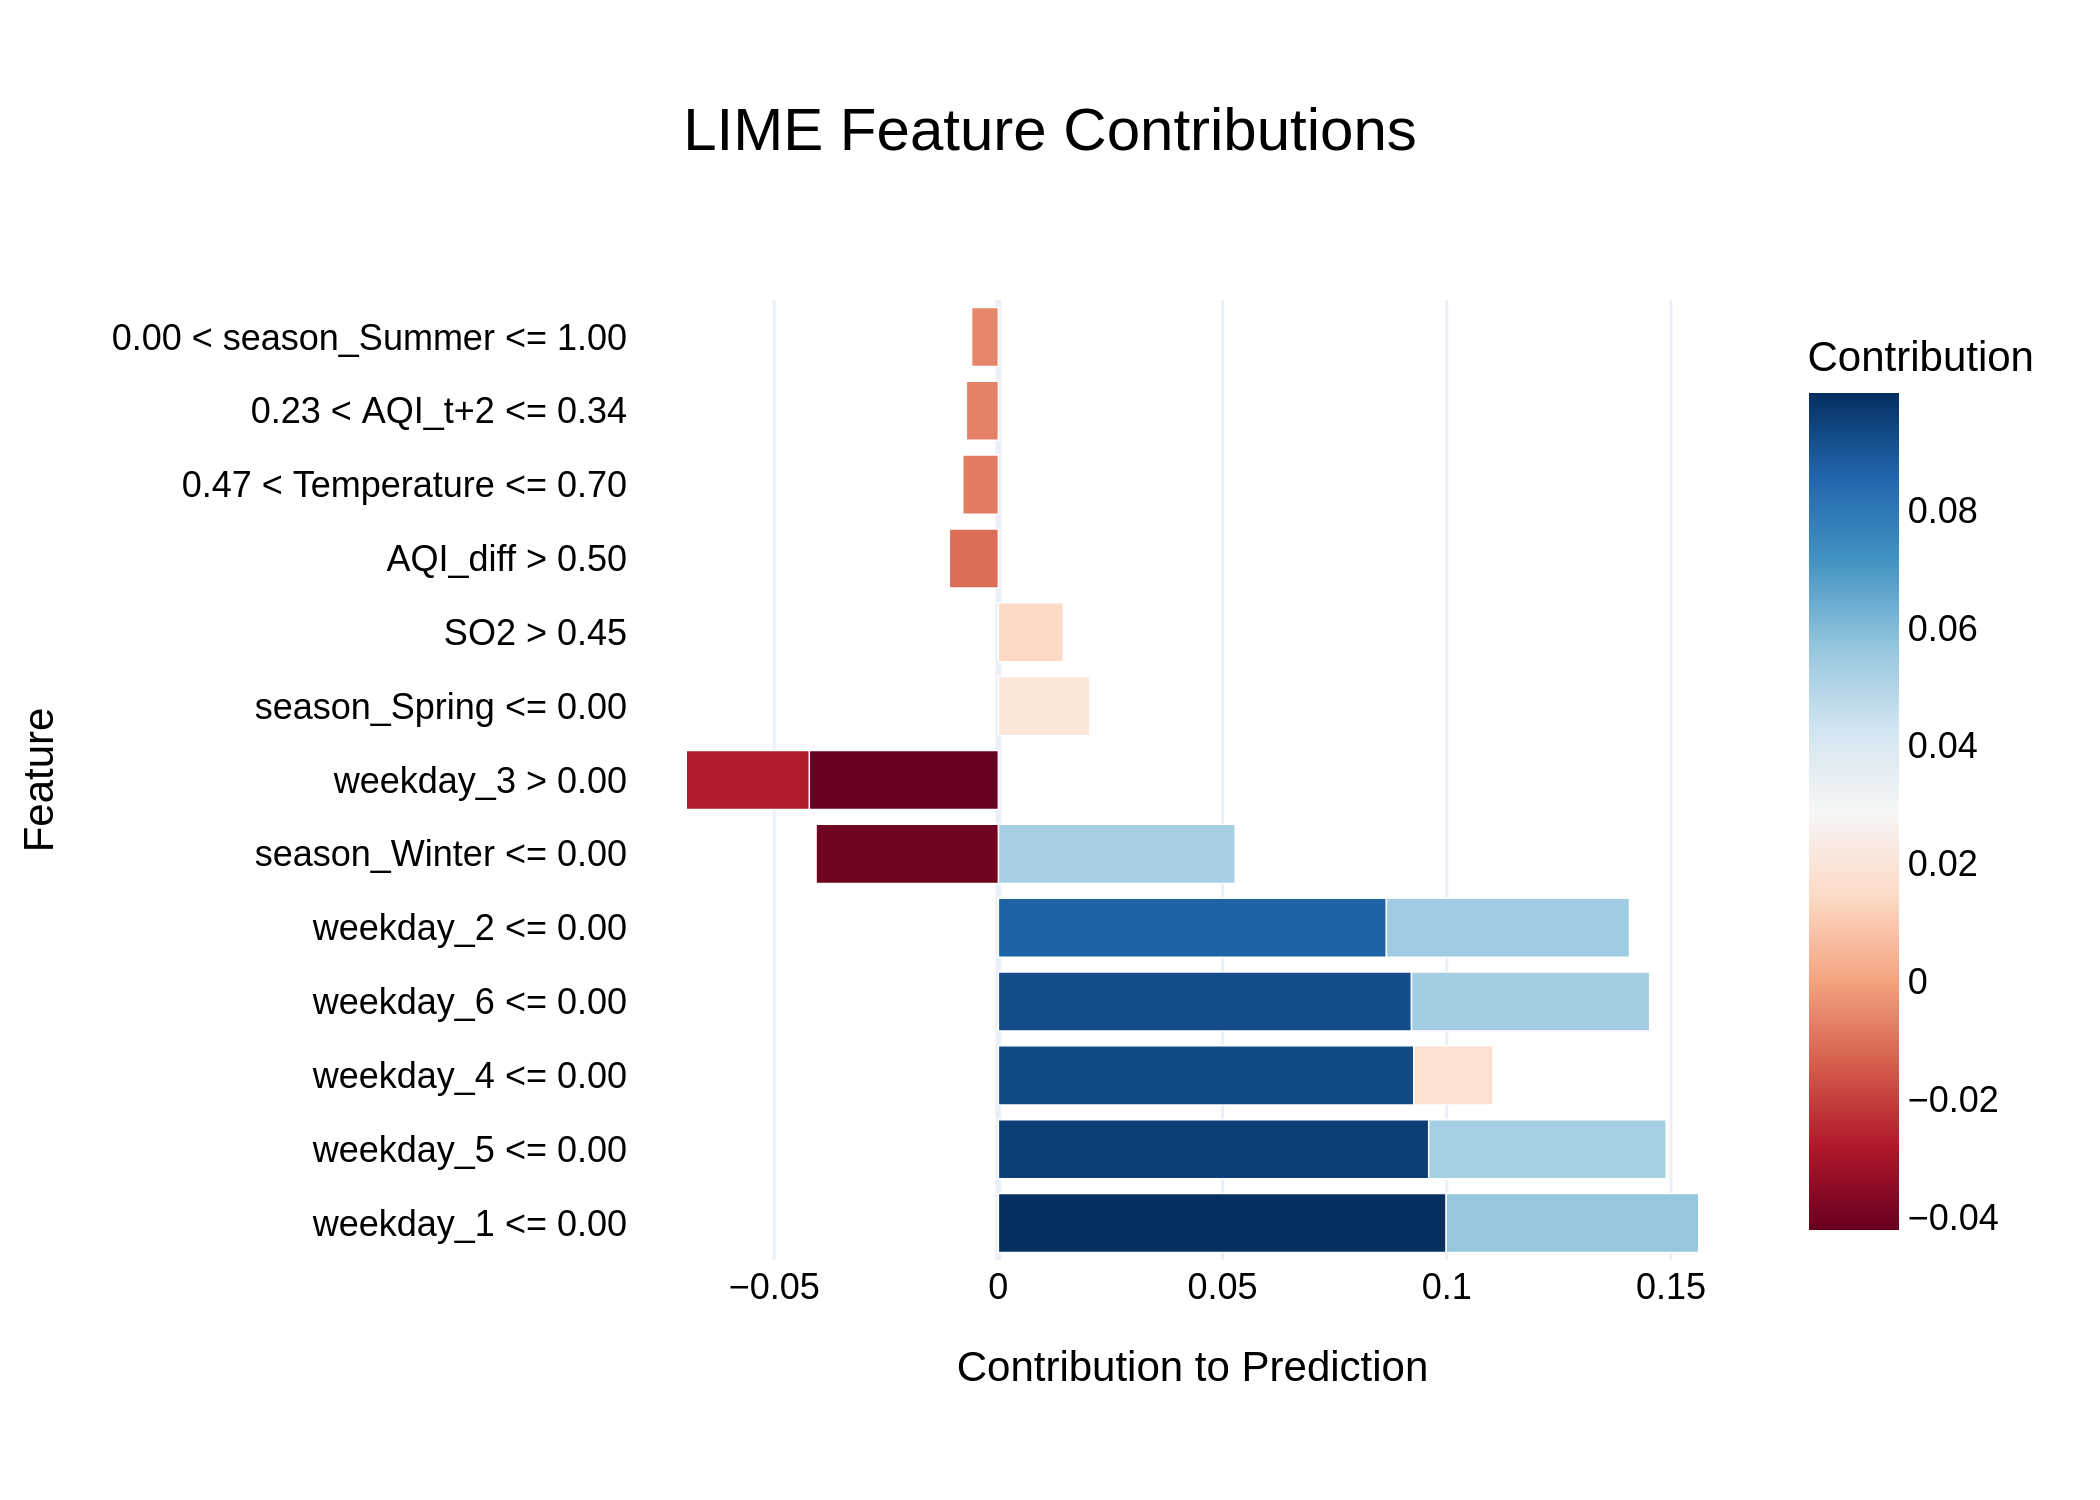
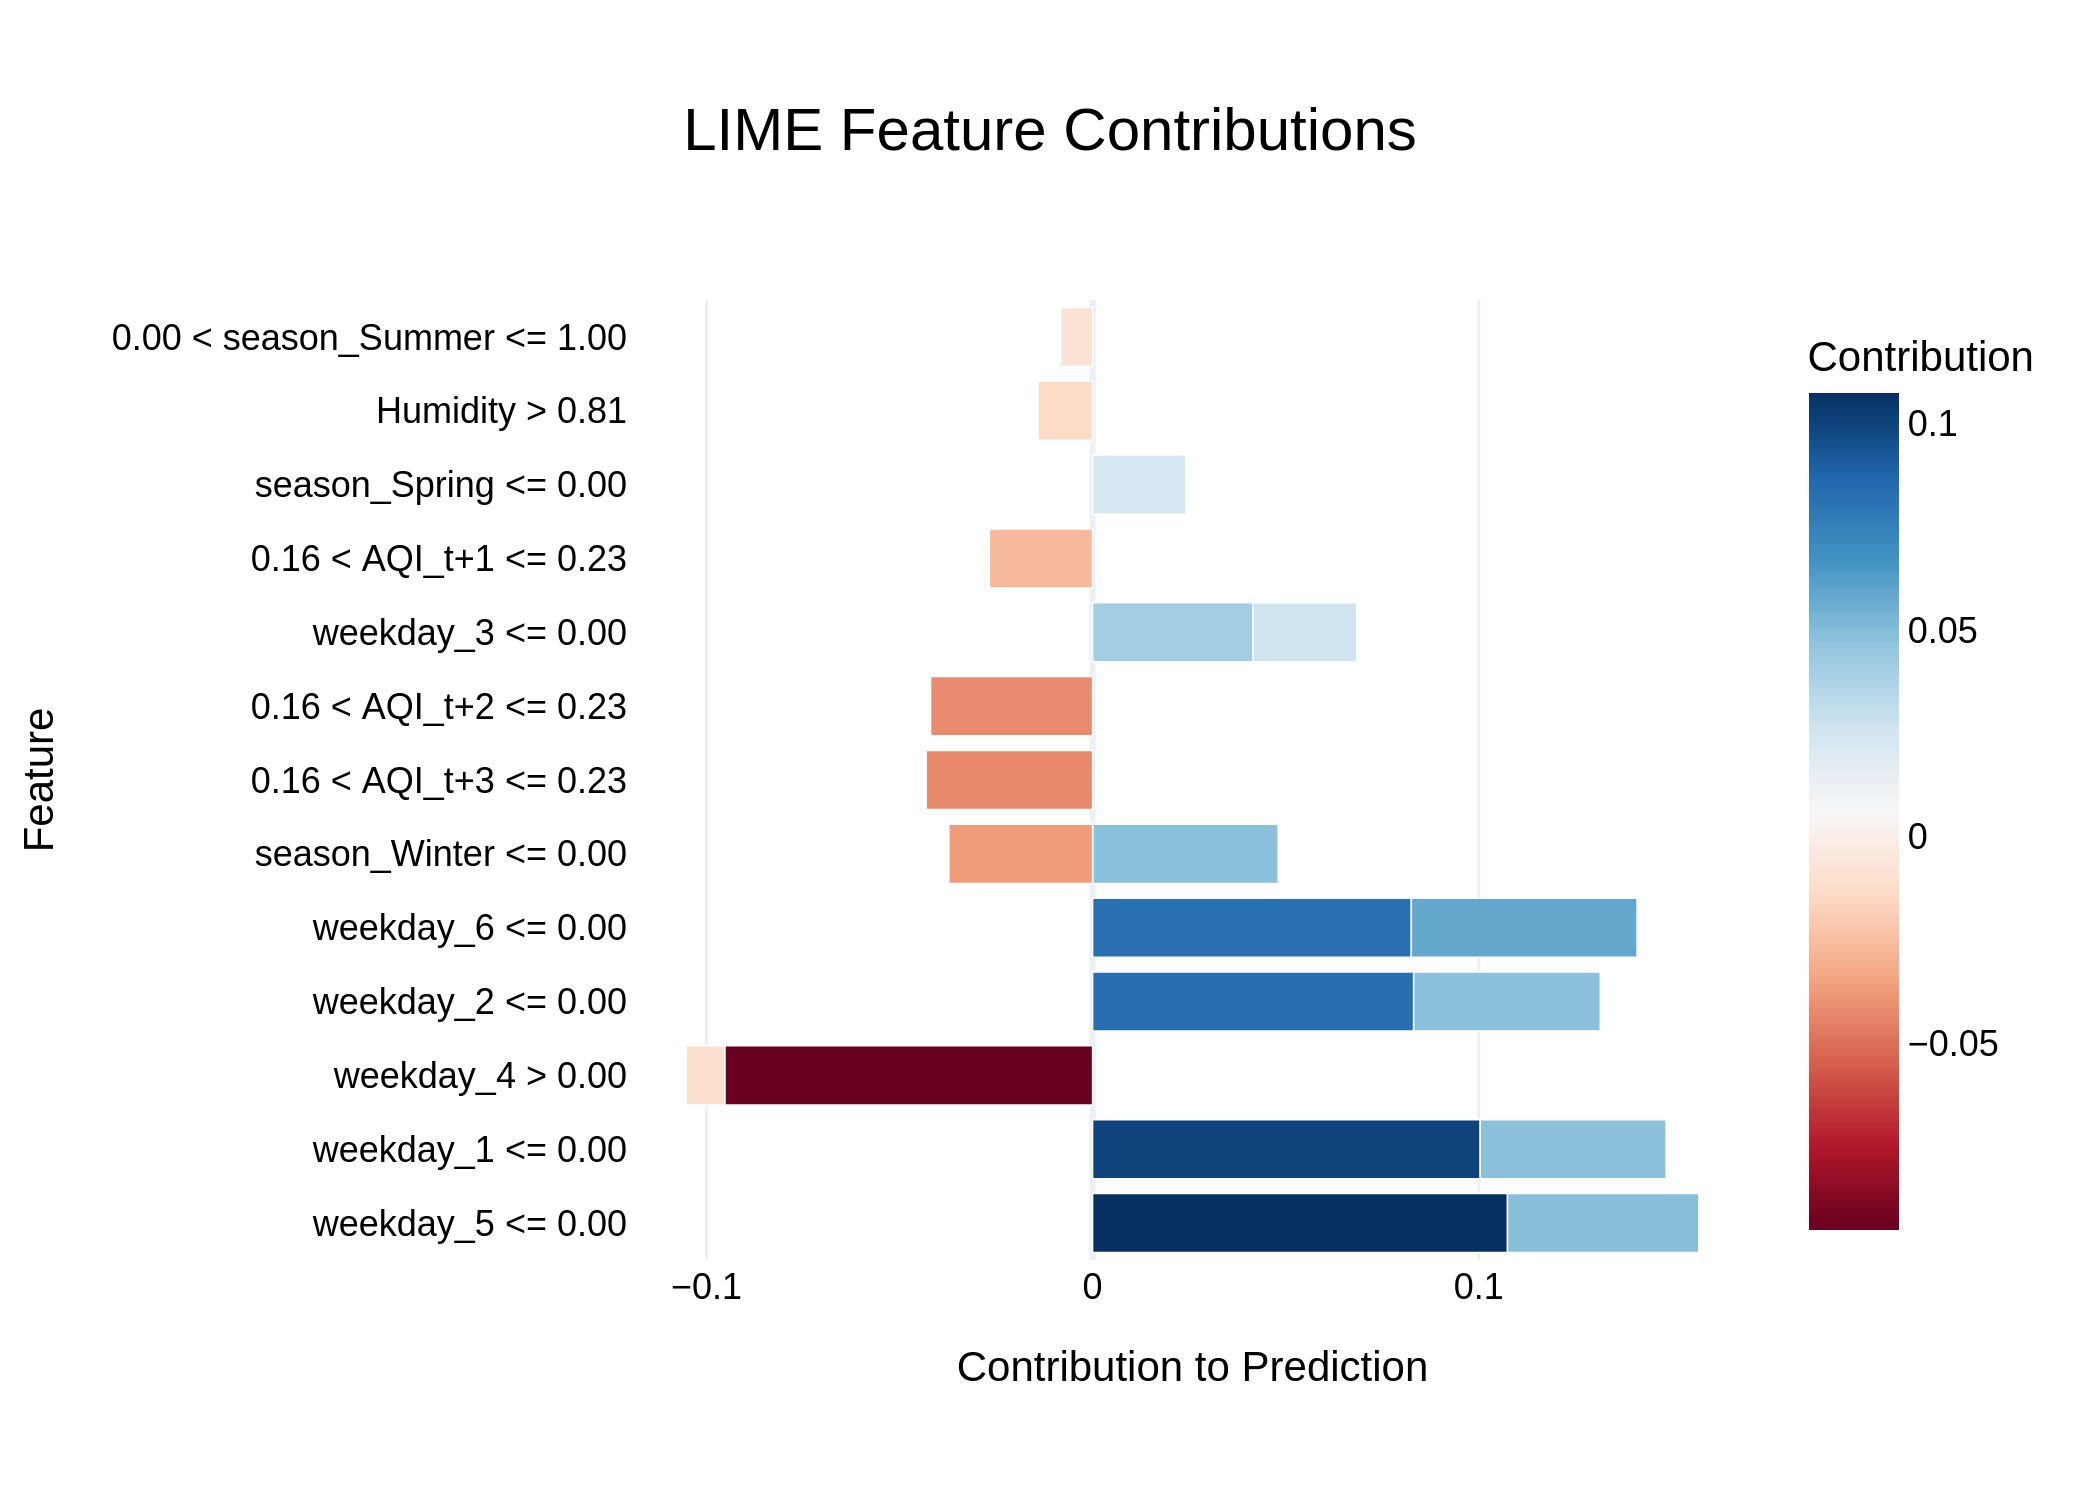
🔄 Auto: Daily data, prediction & LIME update

diff --git a/lime_explanations/lime_explanation.html b/lime_explanations/lime_explanation.html
@@ -37089,25 +37089,25 @@
 /***/ })
 /******/ ]);
 //# sourceMappingURL=bundle.js.map </script></head><body>
-        <div class="lime top_div" id="top_divEDY6PBQW19WDVW2"></div>
+        <div class="lime top_div" id="top_divKG79W702L1V9DVJ"></div>
         
         <script>
-        var top_div = d3.select('#top_divEDY6PBQW19WDVW2').classed('lime top_div', true);
+        var top_div = d3.select('#top_divKG79W702L1V9DVJ').classed('lime top_div', true);
         
         
                     var pp_div = top_div.append('div')
                                         .classed('lime predicted_value', true);
                     var pp_svg = pp_div.append('svg').style('width', '100%');
-                    var pp = new lime.PredictedValue(pp_svg, 0.32339876890182495, -0.1759924292564392, 0.9392633438110352);
+                    var pp = new lime.PredictedValue(pp_svg, 0.20214465260505676, -0.16420698165893555, 0.8634301424026489);
                     
         var exp_div;
             var exp = new lime.Explanation(["negative", "positive"]);
         
             exp_div = top_div.append('div').classed('lime explanation', true);
-            exp.show([["weekday_1 <= 0.00", 0.09987733600703663], ["weekday_5 <= 0.00", 0.09597786134537406], ["weekday_4 <= 0.00", 0.09265615329096118], ["weekday_6 <= 0.00", 0.09213554129022719], ["weekday_2 <= 0.00", 0.08654468748329971], ["weekday_1 <= 0.00", 0.056323989396593374], ["weekday_2 <= 0.00", 0.054221923397580335], ["weekday_6 <= 0.00", 0.05314105892026741], ["weekday_5 <= 0.00", 0.052969852542904775], ["season_Winter <= 0.00", 0.05280724893782332], ["weekday_3 > 0.00", -0.04216904169056307], ["season_Winter <= 0.00", -0.04066020171966828], ["weekday_3 > 0.00", -0.027440364959783102], ["season_Spring <= 0.00", 0.020409482908437672], ["weekday_4 <= 0.00", 0.017647323625234964], ["SO2 > 0.45", 0.014493495466028357], ["AQI_diff > 0.50", -0.010937268038331338], ["0.47 < Temperature <= 0.70", -0.007940891906645263], ["0.23 < AQI_t+2 <= 0.34", -0.0071360346637634785], ["0.00 < season_Summer <= 1.00", -0.005978691816659922]], 1, exp_div);
+            exp.show([["weekday_5 <= 0.00", 0.10744273835397988], ["weekday_1 <= 0.00", 0.10038236358174281], ["weekday_4 > 0.00", -0.09526549472364872], ["weekday_2 <= 0.00", 0.08313935257125901], ["weekday_6 <= 0.00", 0.08253864841885475], ["weekday_6 <= 0.00", 0.058467762124884616], ["weekday_5 <= 0.00", 0.049527239309326794], ["weekday_2 <= 0.00", 0.04833615159238775], ["weekday_1 <= 0.00", 0.0481325487612128], ["season_Winter <= 0.00", 0.04805013280689302], ["0.16 < AQI_t+3 <= 0.23", -0.043093537213304244], ["0.16 < AQI_t+2 <= 0.23", -0.041952634915908185], ["weekday_3 <= 0.00", 0.04158324257003925], ["season_Winter <= 0.00", -0.03723931060035643], ["weekday_3 <= 0.00", 0.02680085410192312], ["0.16 < AQI_t+1 <= 0.23", -0.02673630966838072], ["season_Spring <= 0.00", 0.024114627167834427], ["Humidity > 0.81", -0.014143476869435508], ["weekday_4 > 0.00", -0.00996969752702066], ["0.00 < season_Summer <= 1.00", -0.008336290450698397]], 1, exp_div);
             
         var raw_div = top_div.append('div');
-            exp.show_raw_tabular([["weekday_1", "0.00", 0.09987733600703663], ["weekday_5", "0.00", 0.09597786134537406], ["weekday_4", "0.00", 0.09265615329096118], ["weekday_6", "0.00", 0.09213554129022719], ["weekday_2", "0.00", 0.08654468748329971], ["weekday_1", "0.00", 0.056323989396593374], ["weekday_2", "0.00", 0.054221923397580335], ["weekday_6", "0.00", 0.05314105892026741], ["weekday_5", "0.00", 0.052969852542904775], ["season_Winter", "0.00", 0.05280724893782332], ["weekday_3", "1.00", -0.04216904169056307], ["season_Winter", "0.00", -0.04066020171966828], ["weekday_3", "1.00", -0.027440364959783102], ["season_Spring", "0.00", 0.020409482908437672], ["weekday_4", "0.00", 0.017647323625234964], ["SO2", "0.57", 0.014493495466028357], ["AQI_diff", "0.50", -0.010937268038331338], ["Temperature", "0.65", -0.007940891906645263], ["AQI_t+2", "0.29", -0.0071360346637634785], ["season_Summer", "1.00", -0.005978691816659922]], 1, raw_div);
+            exp.show_raw_tabular([["weekday_5", "0.00", 0.10744273835397988], ["weekday_1", "0.00", 0.10038236358174281], ["weekday_4", "1.00", -0.09526549472364872], ["weekday_2", "0.00", 0.08313935257125901], ["weekday_6", "0.00", 0.08253864841885475], ["weekday_6", "0.00", 0.058467762124884616], ["weekday_5", "0.00", 0.049527239309326794], ["weekday_2", "0.00", 0.04833615159238775], ["weekday_1", "0.00", 0.0481325487612128], ["season_Winter", "0.00", 0.04805013280689302], ["AQI_t+3", "0.21", -0.043093537213304244], ["AQI_t+2", "0.21", -0.041952634915908185], ["weekday_3", "0.00", 0.04158324257003925], ["season_Winter", "0.00", -0.03723931060035643], ["weekday_3", "0.00", 0.02680085410192312], ["AQI_t+1", "0.21", -0.02673630966838072], ["season_Spring", "0.00", 0.024114627167834427], ["Humidity", "0.93", -0.014143476869435508], ["weekday_4", "1.00", -0.00996969752702066], ["season_Summer", "1.00", -0.008336290450698397]], 1, raw_div);
         
         </script>
         </body></html>
